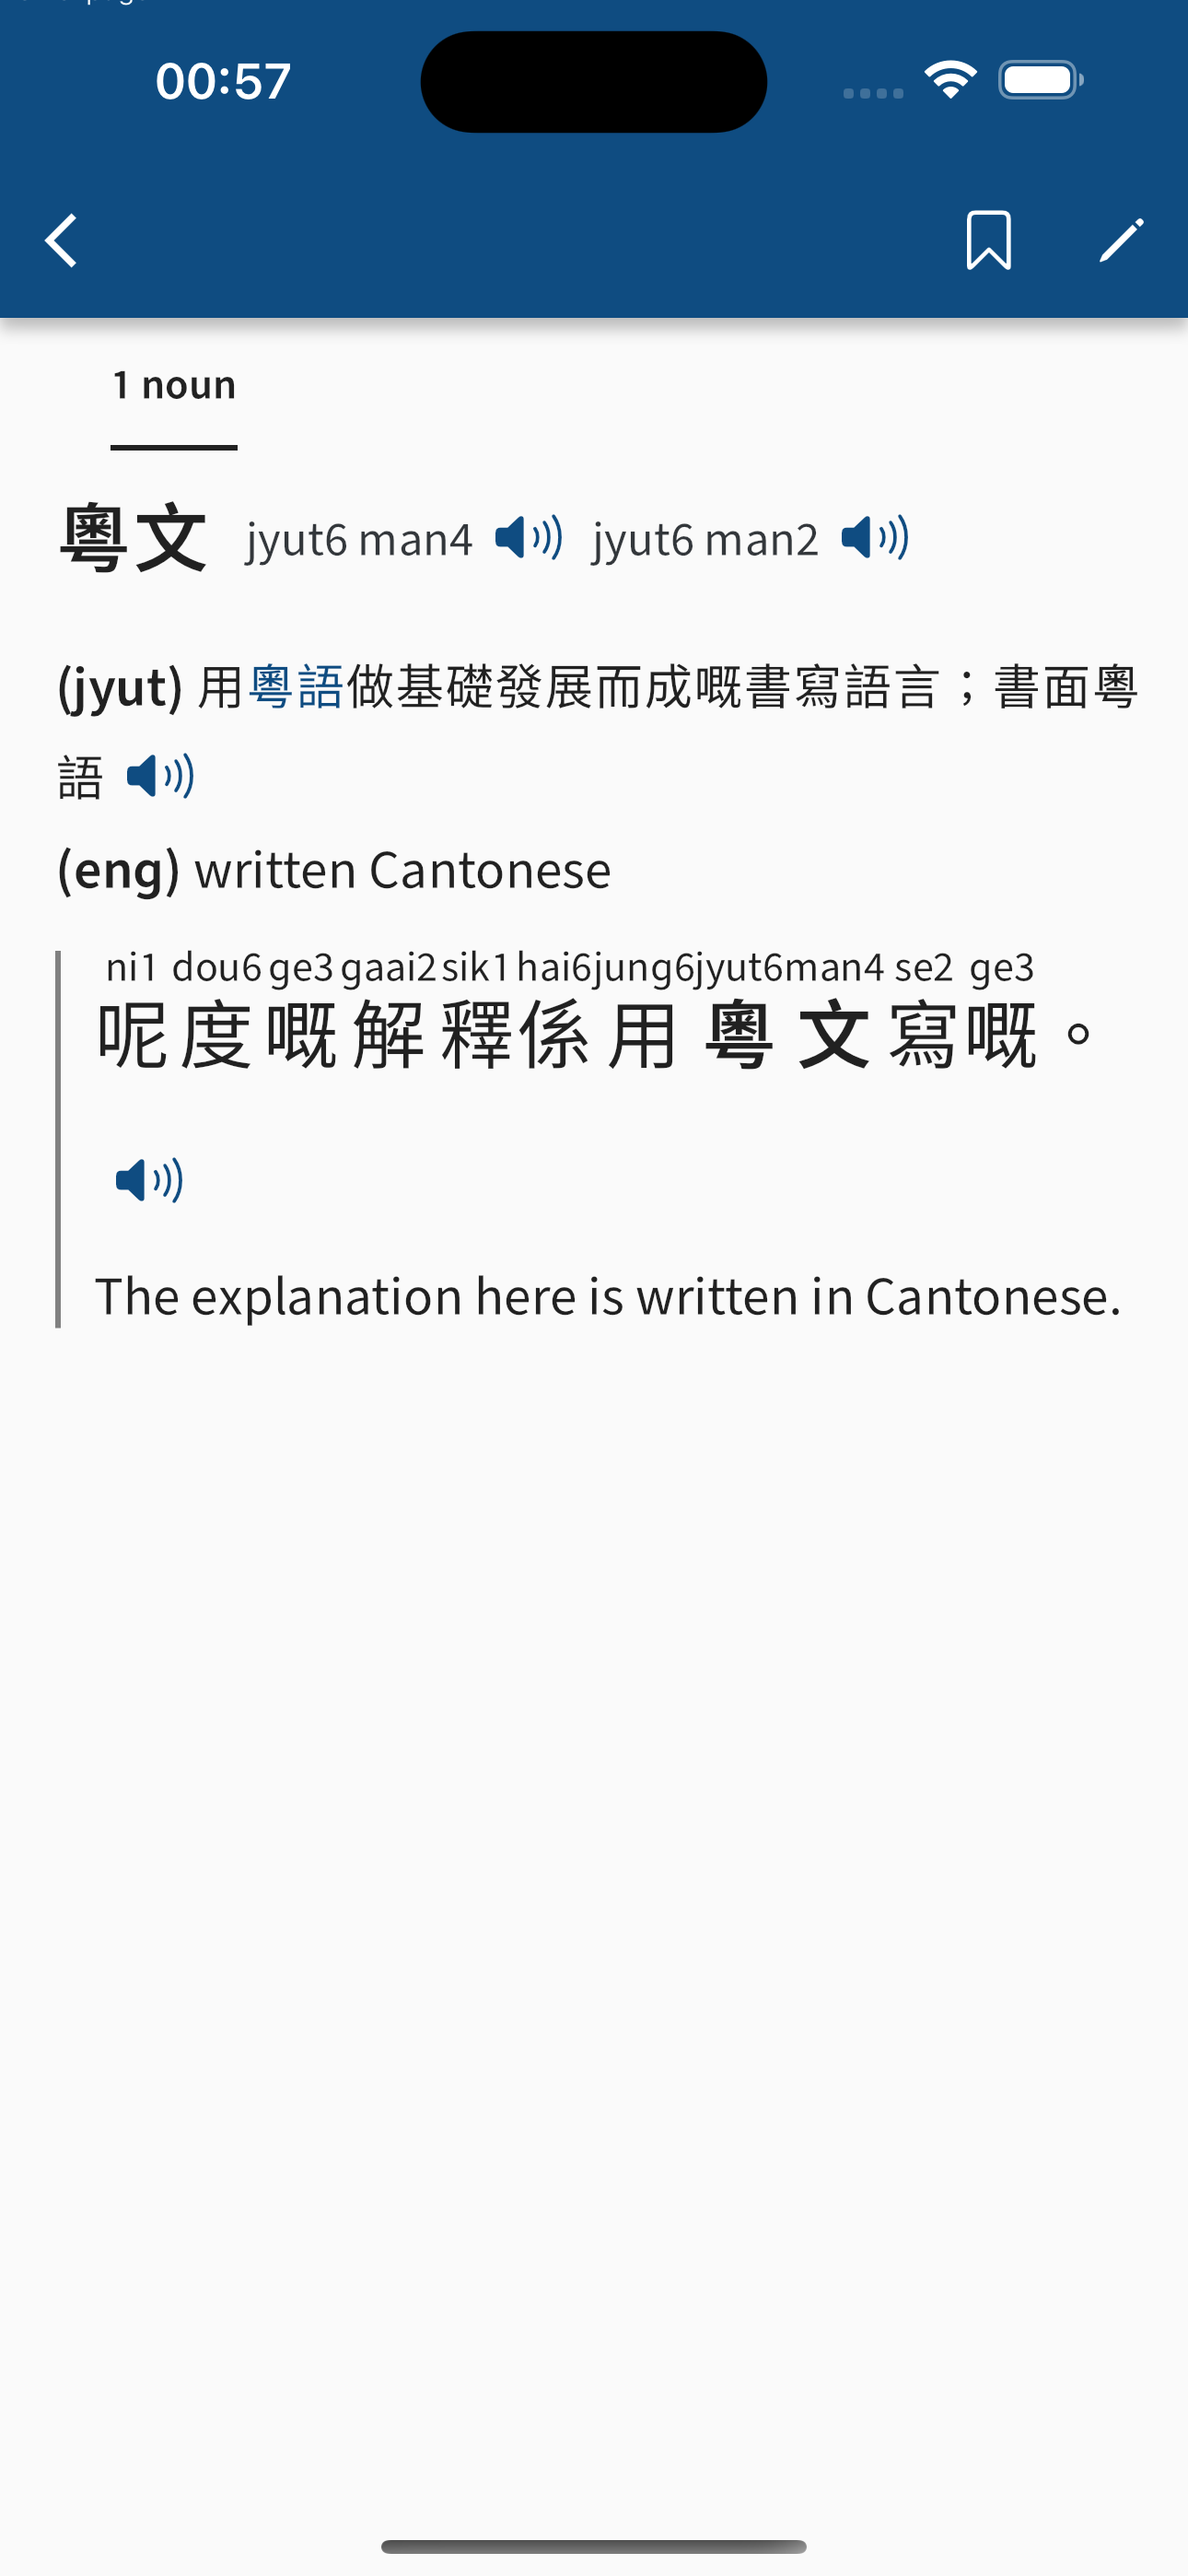
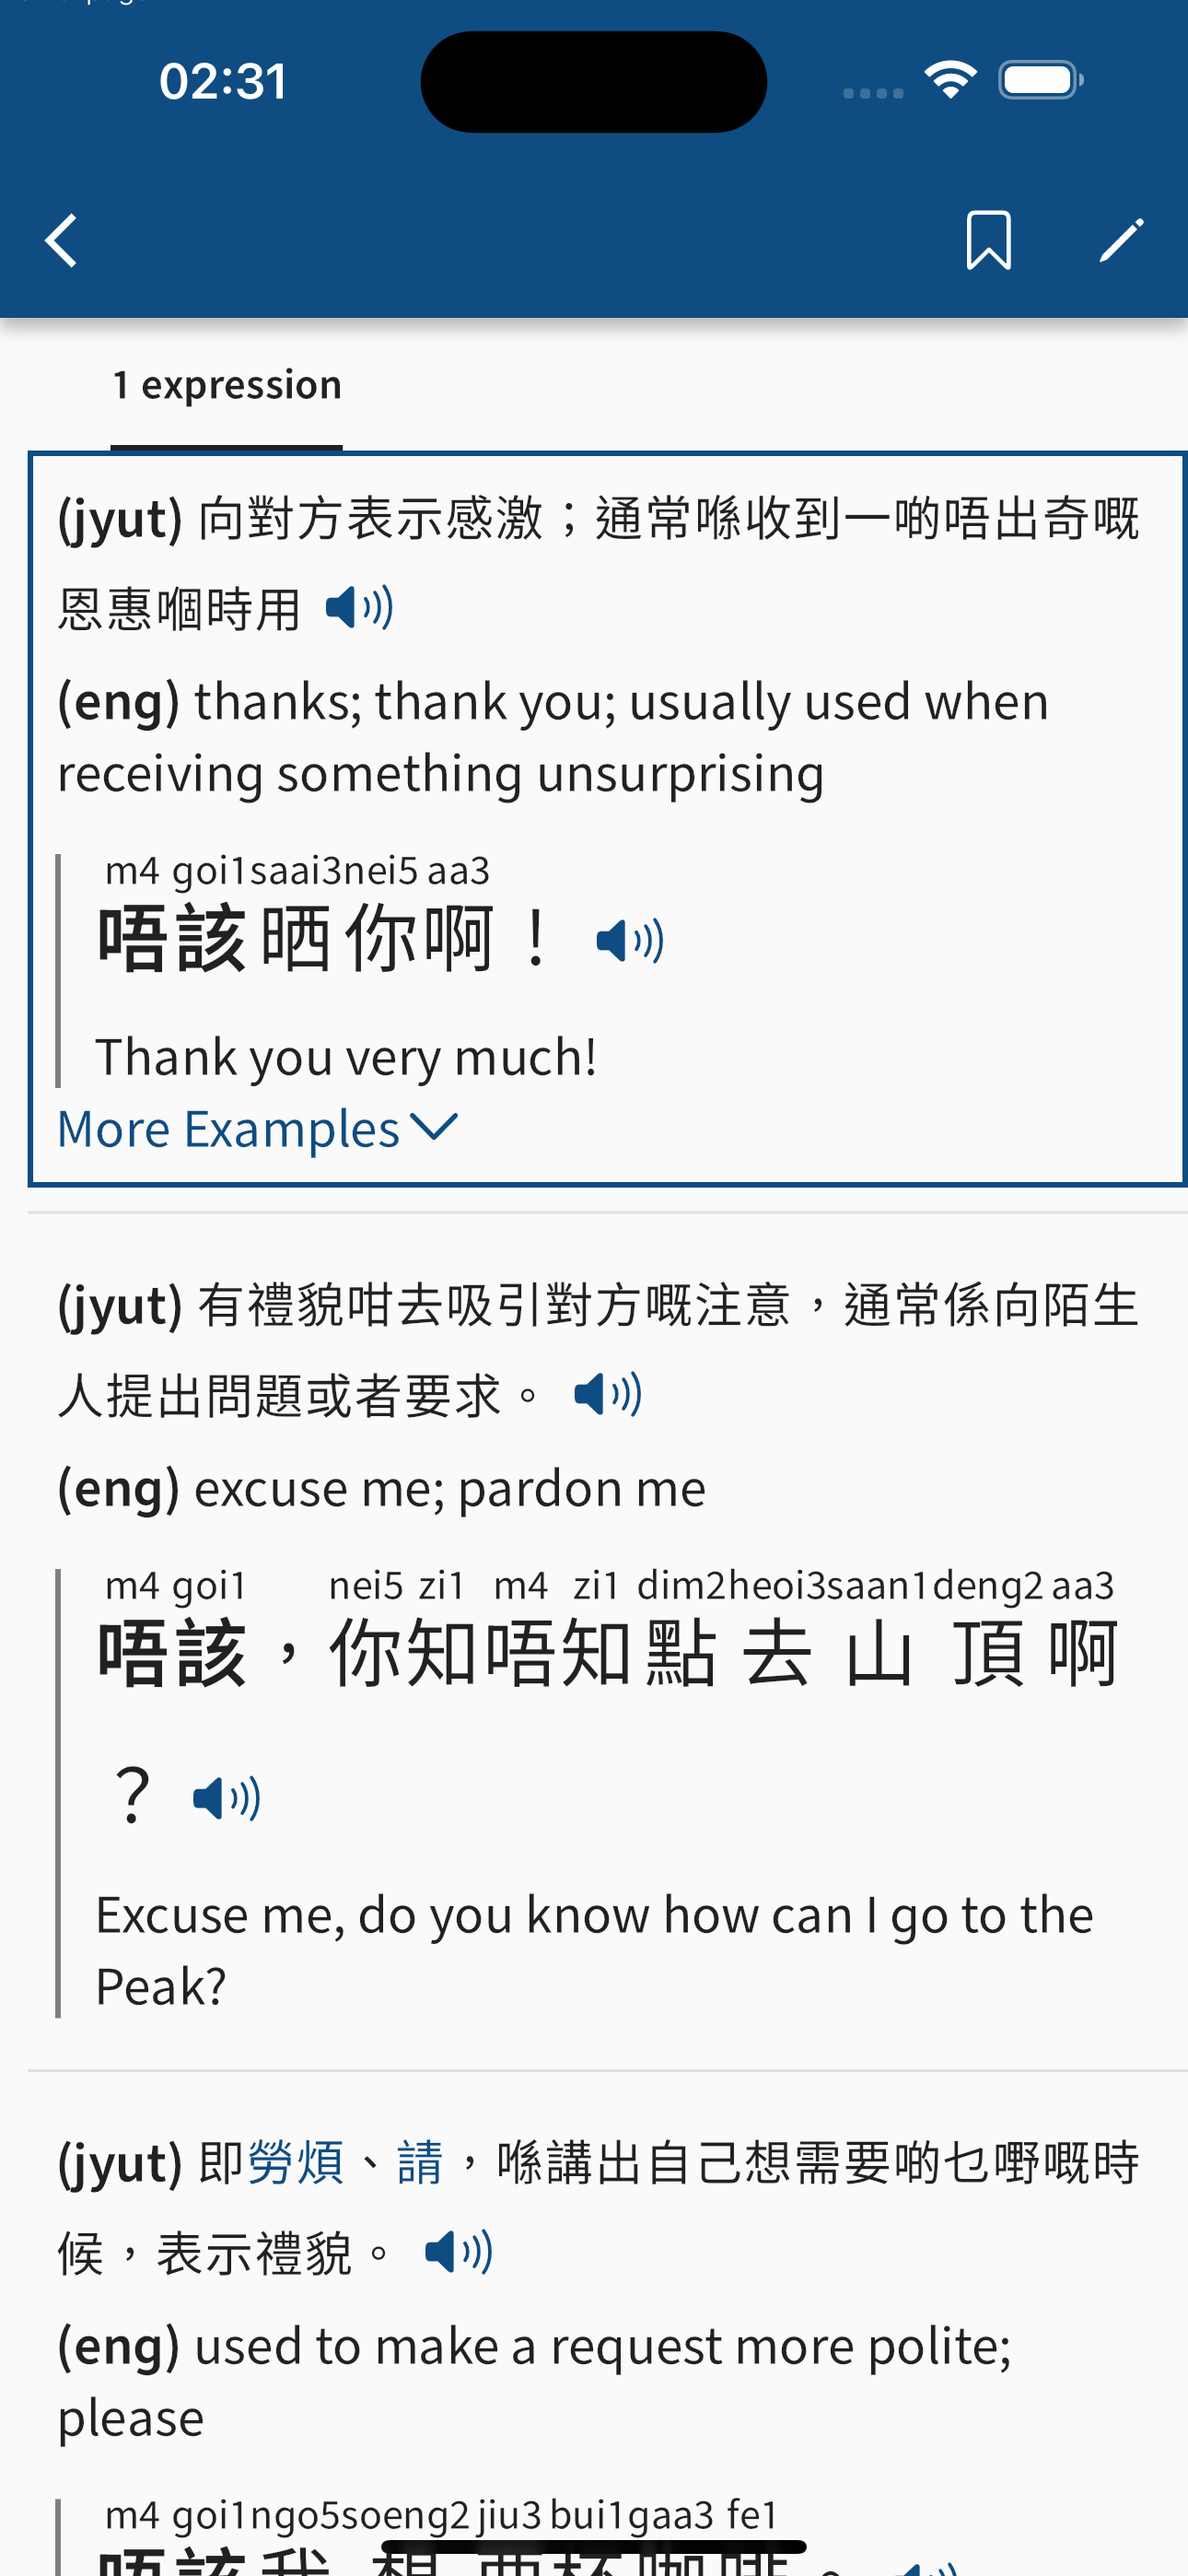
Update integration test to gather the 唔該 entry

diff --git a/integration_test/app_test.dart b/integration_test/app_test.dart
@@ -14,9 +14,14 @@ void main() {
   group('take-screenshots', () {
     testWidgets('home-page',
             (tester) async {
-      await app_main.runMyApp(firstTimeUser: false, language: Language.values.byName(const String.fromEnvironment("language")));
+      final language = Language.values.byName(const String.fromEnvironment("language"));
+      await app_main.runMyApp(firstTimeUser: false, language: language);
       await tester.pumpAndSettle();
       await Future.delayed(const Duration(seconds: 3));
+
+      final double screenWidth = tester.view.physicalSize.width / tester.view.devicePixelRatio;
+      print("screenWidth: $screenWidth");
+      final isWideScreen = screenWidth > 600;
 
       // Clear the clipboard
       // await Clipboard.setData(const ClipboardData(text: ''));
@@ -39,13 +44,33 @@ void main() {
       await tester.pumpAndSettle(const Duration(seconds: 1));
 
       final searchBar = find.byKey(const Key("homePageSearchBar"));
-      await tester.enterText(searchBar, "jyut man");
+      await tester.enterText(searchBar, switch (language) {
+        Language.en => "thanks",
+        Language.zhHans => "唔该",
+        Language.zhHant => "唔該",
+        _ => throw "Unsupported language: $language",
+      });
       await tester.pumpAndSettle(const Duration(seconds: 5));
 
       await takeScreenshot('home-search');
 
-      // Locate the 粵文 entry
-      final entryButton = find.textContaining("jyut6 man4", findRichText: true);
+      // Locate the 唔該 entry
+
+      if (isWideScreen) {
+        print("Hidding keyboard on wide screen");
+        // Hide the on-screen keyboard
+        binding.focusManager.primaryFocus?.unfocus();
+
+        // Wait until keyboard is hidden
+        await tester.pumpAndSettle(const Duration(seconds: 3));
+      }
+
+      final entryButton = find.textContaining(switch (language) {
+        Language.en => "m4 goi1",
+        Language.zhHans => "向对方表示感激",
+        Language.zhHant => "向對方表示感激",
+        _ => throw "Unsupported language: $language",
+      }, findRichText: true);
       await tester.tap(entryButton);
       await tester.pumpAndSettle(const Duration(seconds: 1));
 
